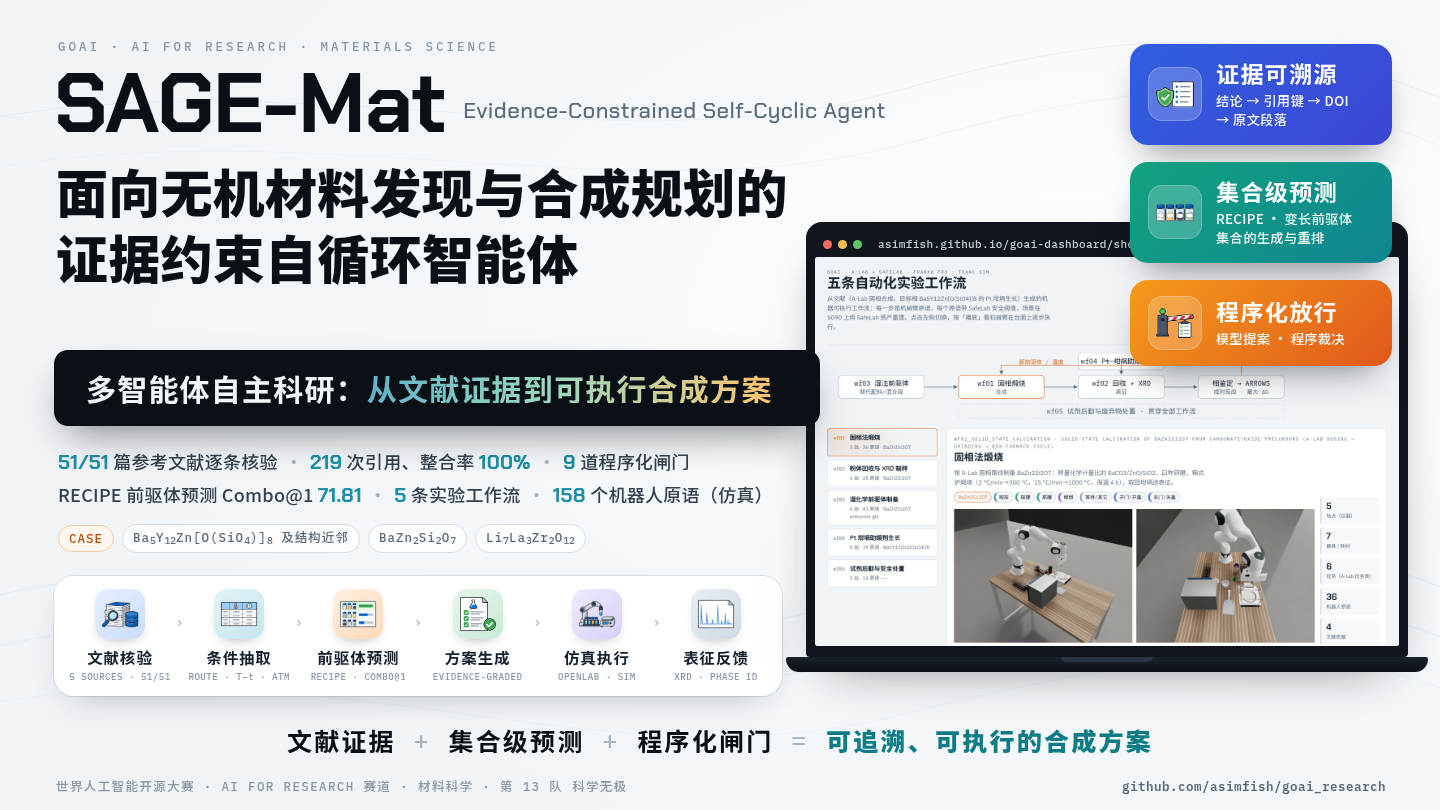
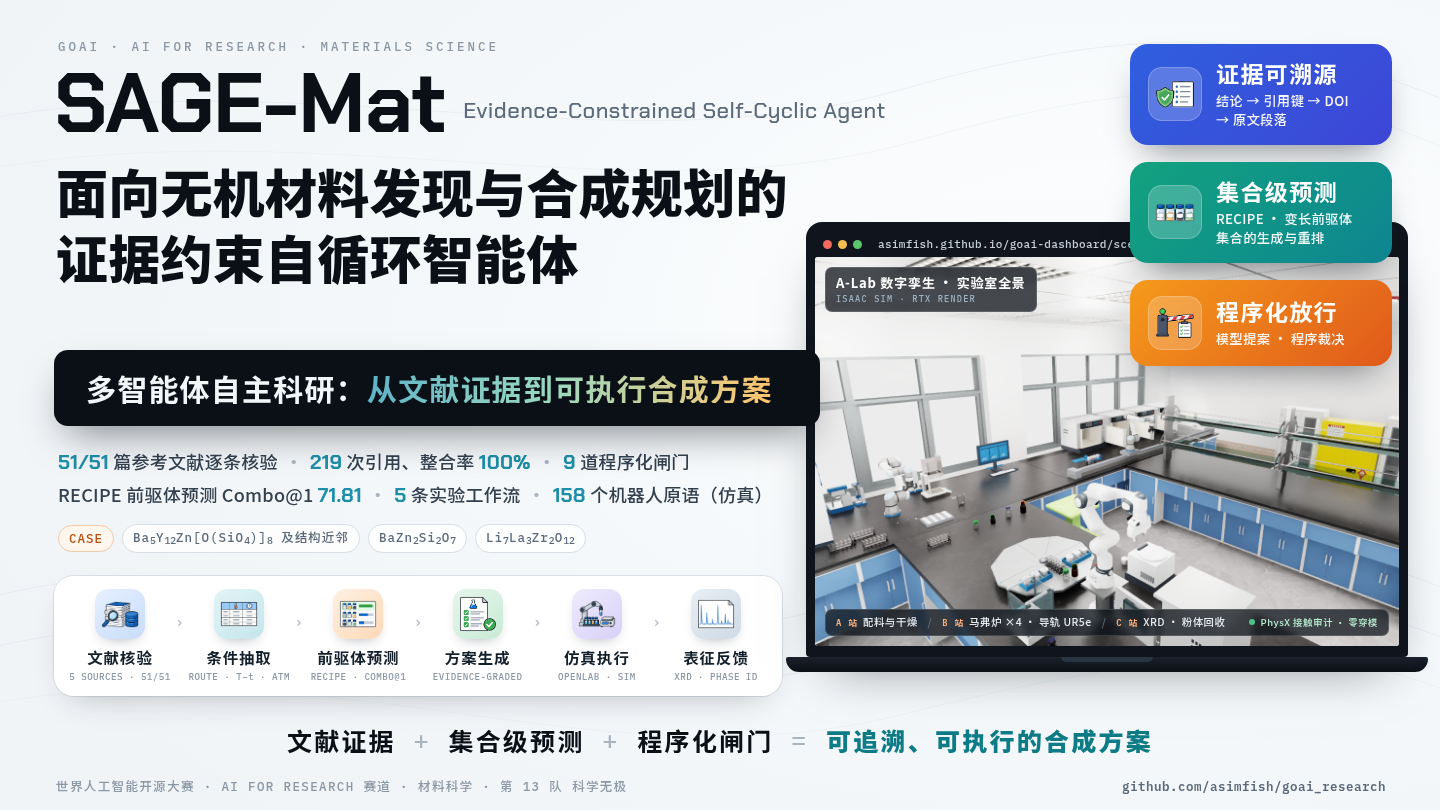
[docs/fix]: cover — show the A-Lab digital-twin RTX overview on the laptop
The author asked for "our best-looking, more realistic scene" on the laptop instead of the workflow page screenshot.
The screen is now the Isaac Sim RTX overview of the A-Lab twin (scenes.html「全景（六门全开）」), full bleed, with a
restrained HUD: title + "ISAAC SIM · RTX RENDER", the three stations (A 配料与干燥 / B 马弗炉 ×4 · 导轨 UR5e /
C XRD · 粉体回收) and the PhysX contact-audit note. Every label traces to scenes.html and final_round/05_alab_twin.md,
and the render is marked as a render — it is simulation, not a lab photograph.

screen.jpg and make_screen.py (the composited page screenshot) are removed; README explains the new screen and its sources.

Changed region(s): [[0.5625, 0.4321, 0.9688, 0.8025], [0.5625, 0.3086, 0.75, 0.4012]]

diff --git a/docs/competition/cover/cover.html b/docs/competition/cover/cover.html
@@ -73,7 +73,20 @@ svg.contour{position:absolute;inset:0;width:1440px;height:810px;opacity:.55}
 .chrome u:nth-child(1){background:#F26B5E}.chrome u:nth-child(2){background:#F4BE4F}.chrome u:nth-child(3){background:#5BC66A}
 .chrome em{font-style:normal;margin-left:10px;color:#C6D0DA}
 .screen{width:584px;height:389px;border-radius:3px;overflow:hidden;background:#F1F4F7}
-.screen img{width:584px;display:block}
+.screen{position:relative}
+.screen img{width:584px;height:389px;object-fit:cover;object-position:50% 46%;display:block}
+.hud{position:absolute;font-family:var(--mono);color:#E6ECF2;background:rgba(11,16,23,.74);border:1px solid rgba(230,236,242,.16);
+ border-radius:7px;backdrop-filter:blur(3px)}
+.hud.tl{left:10px;top:10px;padding:7px 10px 8px}
+.hud.tl b{display:block;font:700 13px/1.2 var(--cn);letter-spacing:.06em;color:#fff}
+.hud.tl span{display:block;margin-top:4px;font:500 8.6px/1 var(--mono);letter-spacing:.14em;color:#9FB2C3}
+.hud.tr{right:10px;top:10px;padding:6px 9px;font:500 8.8px/1 var(--mono);letter-spacing:.1em;color:#B8F0D2;border-color:rgba(76,195,138,.45)}
+.hud.tr:before{content:"";display:inline-block;width:6px;height:6px;border-radius:50%;background:#4CC38A;margin-right:6px;vertical-align:1px}
+.hud.bl{left:10px;right:10px;bottom:10px;padding:7px 10px;display:flex;gap:10px;white-space:nowrap;align-items:center;font:500 10.4px/1 var(--cn);letter-spacing:.05em}
+.hud.bl i{font:600 8.8px/1 var(--mono);font-style:normal;letter-spacing:.1em;color:#FFB07A;margin-right:5px}
+.hud.bl s{text-decoration:none;color:#5C6B7C}
+.hud.bl .ok{margin-left:auto;color:#B8F0D2;font:500 9.4px/1 var(--cn);letter-spacing:.06em;white-space:nowrap}
+.hud.bl .ok:before{content:"";display:inline-block;width:6px;height:6px;border-radius:50%;background:#4CC38A;margin-right:6px;vertical-align:1px}
 .base{height:15px;margin:0 -20px;background:linear-gradient(#1A212B,#0C1016);border-radius:2px 2px 14px 14px;position:relative}
 .base:before{content:"";position:absolute;left:50%;top:0;width:92px;height:5px;margin-left:-46px;border-radius:0 0 8px 8px;background:#2A3340}
 
@@ -125,8 +138,11 @@ svg.contour{position:absolute;inset:0;width:1440px;height:810px;opacity:.55}
 
 <div class="abs lap">
  <div class="lid">
-  <div class="chrome"><u></u><u></u><u></u><em>asimfish.github.io/goai-dashboard/showcase.html</em></div>
-  <div class="screen"><img src="screen.jpg"></div>
+  <div class="chrome"><u></u><u></u><u></u><em>asimfish.github.io/goai-dashboard/scenes.html</em></div>
+  <div class="screen"><img src="scene.jpg">
+   <div class="hud tl"><b>A-Lab 数字孪生 · 实验室全景</b><span>ISAAC SIM · RTX RENDER</span></div>
+   <div class="hud bl"><span><i>A 站</i>配料与干燥</span><s>/</s><span><i>B 站</i>马弗炉 ×4 · 导轨 UR5e</span><s>/</s><span><i>C 站</i>XRD · 粉体回收</span><span class="ok">PhysX 接触审计 · 零穿模</span></div>
+  </div>
  </div>
  <div class="base"></div>
 </div>

diff --git a/docs/competition/cover/README.md b/docs/competition/cover/README.md
@@ -14,11 +14,12 @@
 | 9 道程序化闸门 | `docs/LOOP_PROTOCOL.md`；FINAL_REPORT §1.3「九道流程闸门」 |
 | RECIPE Combo@1 71.81 | FINAL_REPORT §1.3（2,558 条留出测试反应；Combo@20 89.21，MRR 77.48） |
 | 5 条实验工作流 · 158 个机器人原语（仿真） | 站点 `showcase.html` 页首统计（Isaac Sim 数字孪生，非实体实验） |
+| 屏幕标注：三站内容、零穿模 | 站点 `scenes.html`（布局 v4 接触分离审计）、`final_round/05_alab_twin.md` |
 | 5 SOURCES | arXiv / OpenAlex / Crossref / Semantic Scholar / DBLP 五源检索 |
 | 案例 | BYZSO 正式案例、BaZn₂Si₂O₇ 补充案例、LLZO 诊断轮 |
 | 署名 | FINAL_REPORT 题注：AI for Research 赛道 · 算法赛 · 材料科学 · 第 13 队 科学无极 |
 
-笔记本屏幕是站点 `showcase.html` 的真实截图（2×）；无头浏览器不绘制 `<video>`，所以 `make_screen.py` 把该页 wf01 工作流在这个位置播放的两帧仿真画面贴了回去。
+笔记本屏幕是 A-Lab 数字孪生的 Isaac Sim RTX 全景渲染（`scene.jpg` = 站点 `scenes.html` 的「全景（六门全开）」，`final_round/showcase/media/alab_twin_v4/rtx/open_overview_1.png`），作者要求换成"最好看、最真实的场景"。屏幕上的标注全部来自 `scenes.html` 与 `final_round/05_alab_twin.md`：A 站配料与干燥、B 站四台马弗炉 + 导轨 UR5e、C 站 XRD 与粉体回收；「PhysX 接触审计 · 零穿模」= 布局 v4 的接触分离审计（67 对接触，器材间最小分离为正）。它是仿真渲染，不是实验室照片，屏幕左上角标了 ISAAC SIM · RTX RENDER。
 
 ## 重渲染
 
